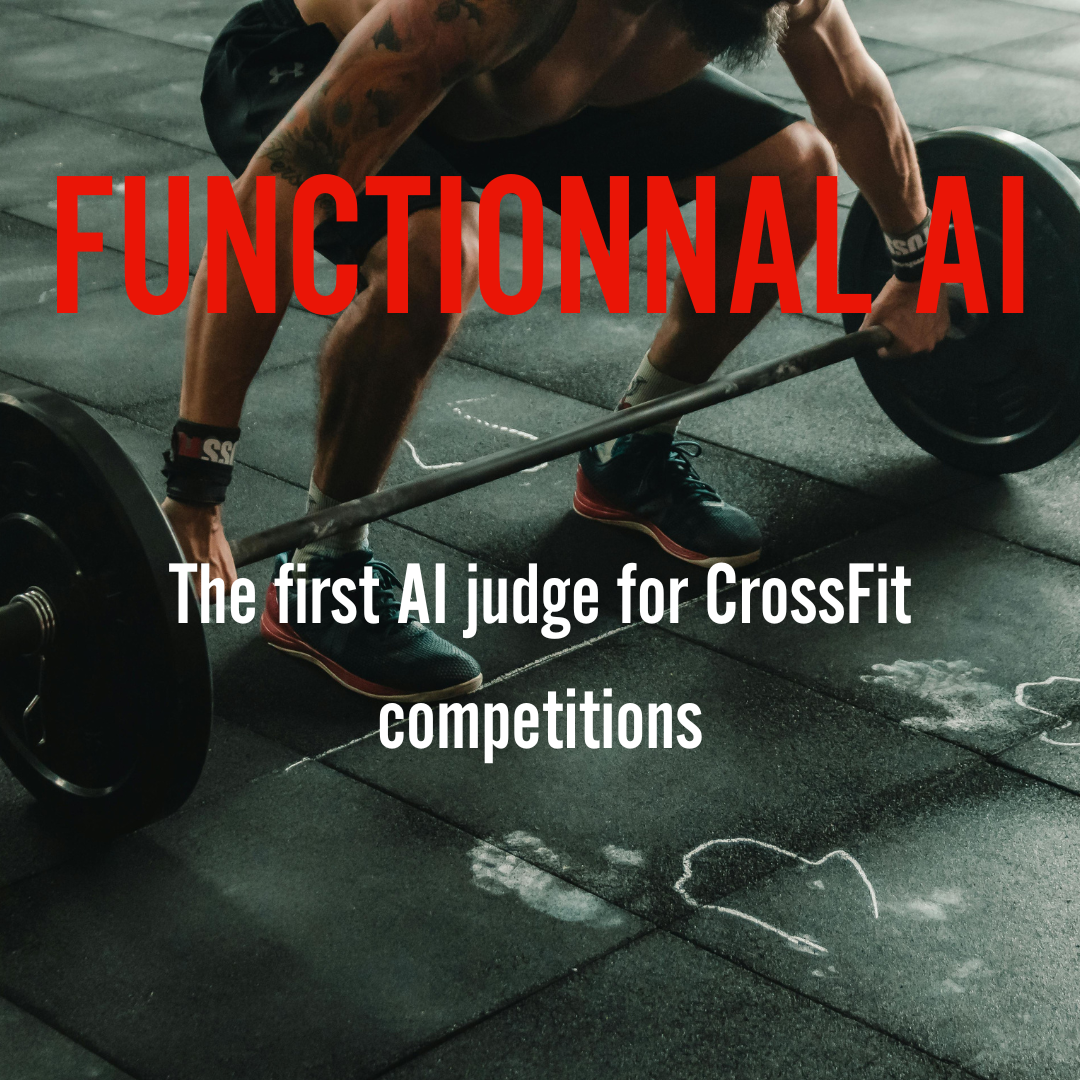
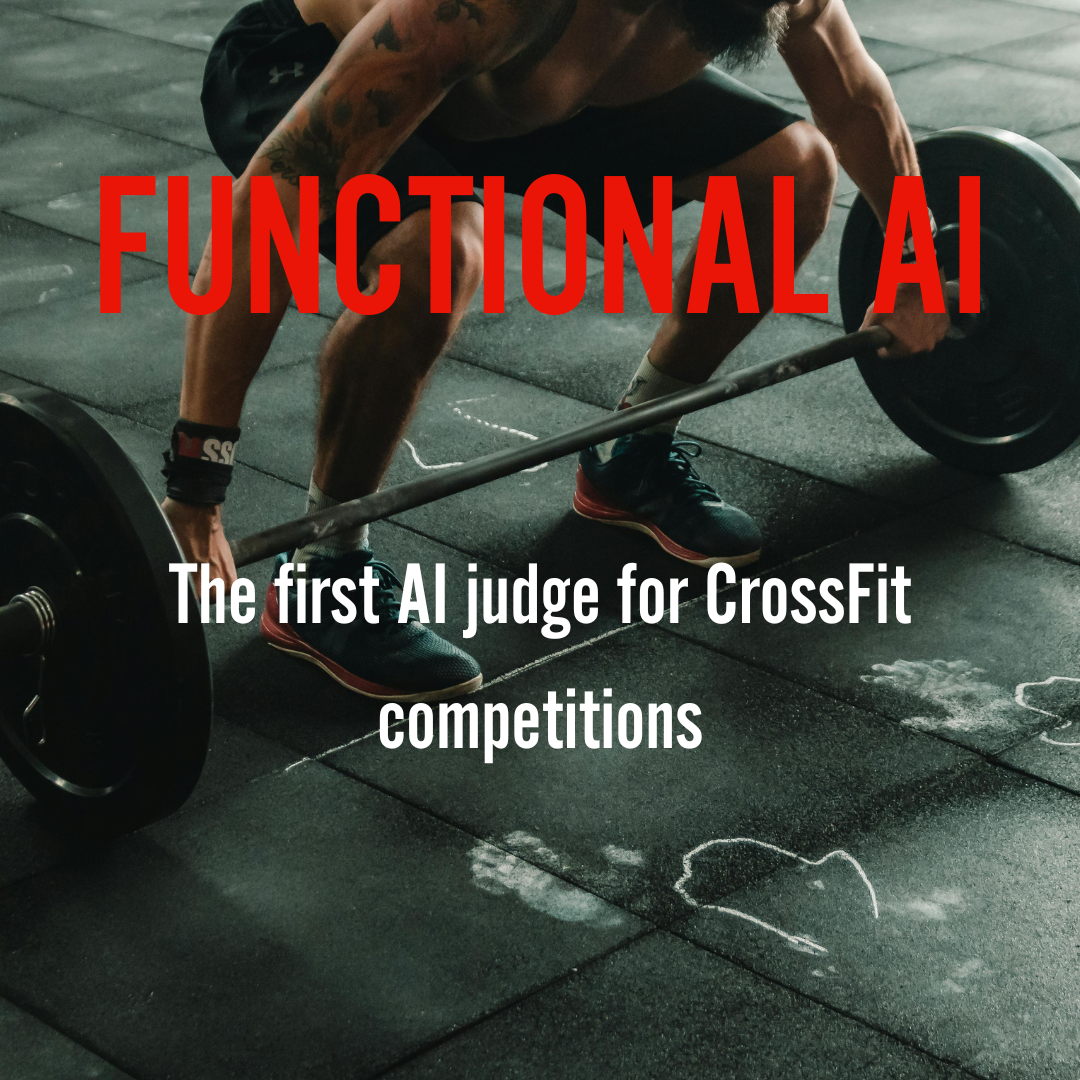
correct typo

Changed region(s): [[0.0306, 0.1528, 0.9472, 0.3056]]

diff --git a/src/pages/_document.tsx b/src/pages/_document.tsx
@@ -3,7 +3,7 @@ import Document, { Html, Head, Main, NextScript } from "next/document";
 import createEmotionCache from "../config/createEmotionCache";
 import createEmotionServer from "@emotion/server/create-instance";
 
-const APP_NAME = "Functionnal AI";
+const APP_NAME = "Functional AI";
 const APP_DESCRIPTION =
   "The first AI-powered fitness judge for competitive sports";
 

diff --git a/src/pages/_app.tsx b/src/pages/_app.tsx
@@ -36,7 +36,7 @@ function MyApp(props: AppPropsWithLayout) {
     <>
       <Head>
         <meta name="viewport" content="width=device-width, initial-scale=1" />
-        <title>{`Functionnal AI`}</title>
+        <title>{`Functional AI`}</title>
       </Head>
       <SessionProvider session={session}>
         <CacheProvider value={emotionCache}>

diff --git a/src/pages/Layout.tsx b/src/pages/Layout.tsx
@@ -66,7 +66,7 @@ const DashboardLayout = ({
               {open ? <Close /> : <MenuIcon />}
             </IconButton>
             <Typography variant="h5" noWrap>
-              Functionnal AI
+              Functional AI
             </Typography>
           </Stack>
           <IconButton>

diff --git a/src/pages/dashboard/index.tsx b/src/pages/dashboard/index.tsx
@@ -162,7 +162,7 @@ const DashboardPage = () => {
           textAlign="center"
           sx={{ zIndex: 2, position: "relative", flex: 1 }}
         >
-          Functionnal AI
+          Functional AI
         </Typography>
 
         <Container sx={{ position: "relative", zIndex: 2 }}>

diff --git a/src/pages/index.tsx b/src/pages/index.tsx
@@ -56,7 +56,7 @@ const IndexPage = () => {
         textAlign="center"
         sx={{ zIndex: 2, position: "relative" }}
       >
-        Functionnal AI
+        Functional AI
       </Typography>
 
       <Container
